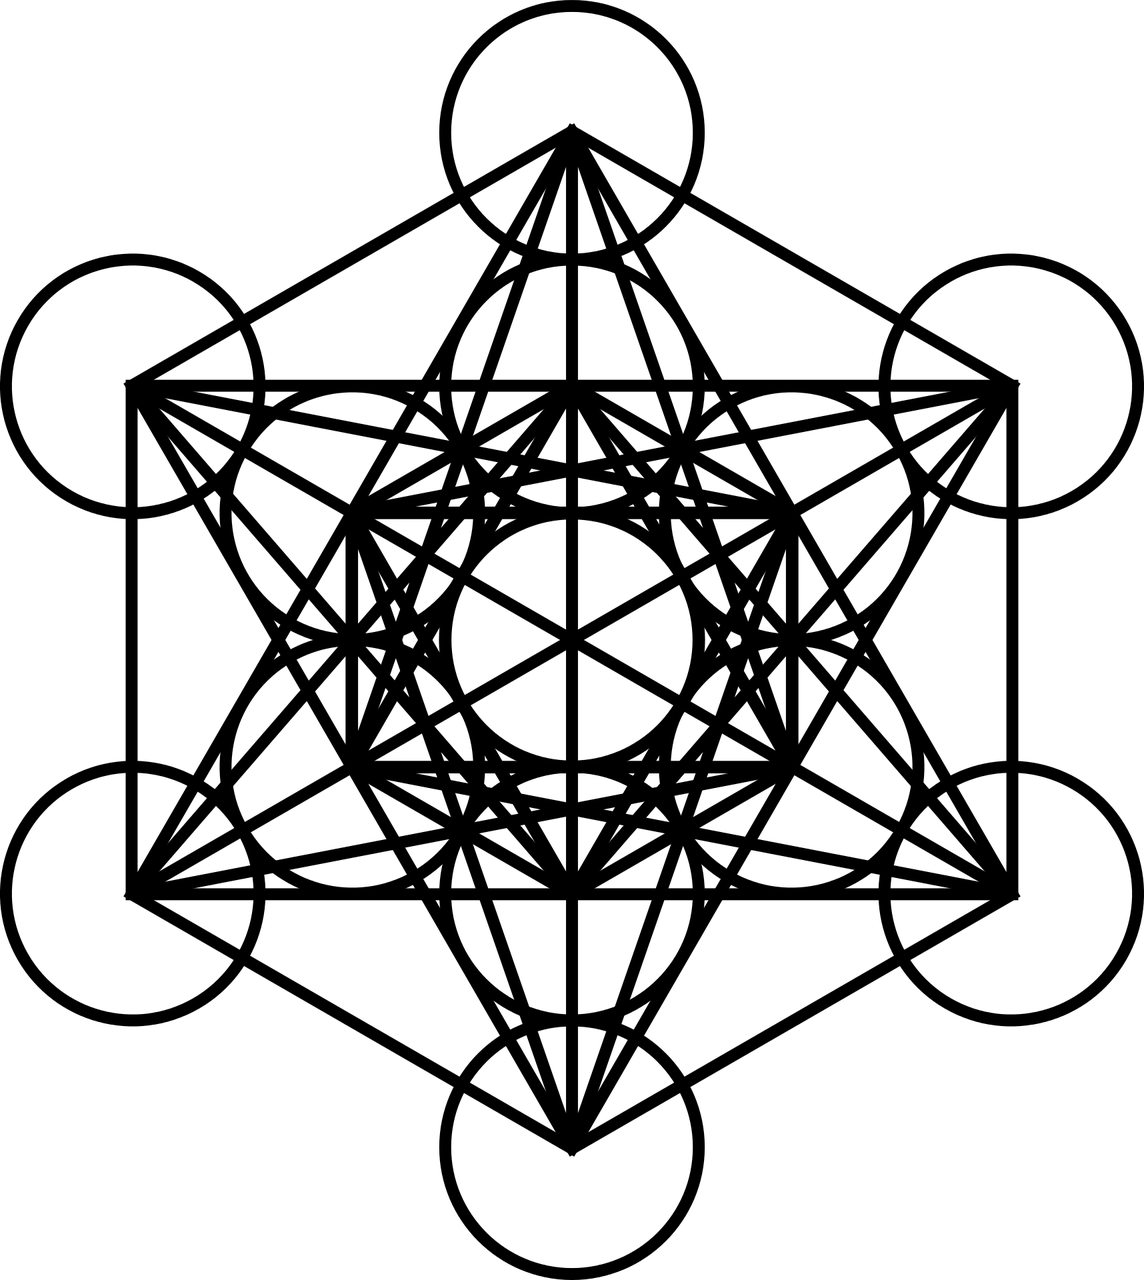
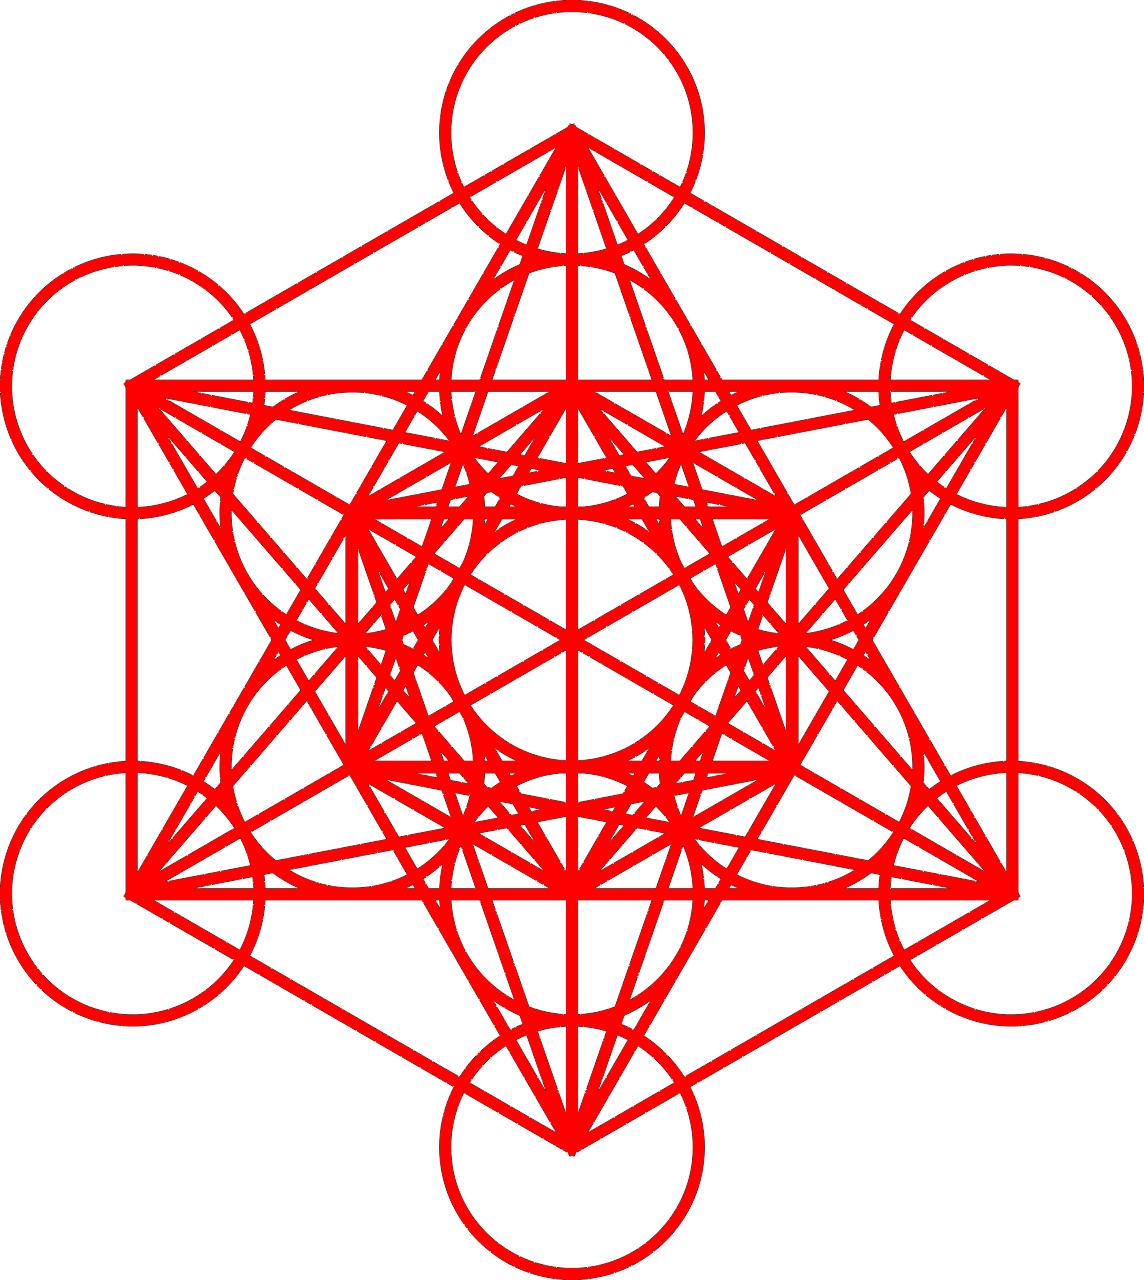
updates layers to different colors

diff --git a/index.html b/index.html
@@ -22,8 +22,8 @@
   <div id="container" class="container">
     <div id="scene">
       <div data-depth-x="-1.90"><img src="assets/images/layer1.png"></div>
-      <div data-depth="0.6"><img src="assets/images/layer1.png"></div>
-      <div data-depth-y="3.00"><img src="assets/images/layer1.png"?</div>
+      <div data-depth="0.6"><img src="assets/images/layer2.png"></div>
+      <div data-depth-y="3.00"><img src="assets/images/layer3.png"?</div>
     </div>
   </div>
 
